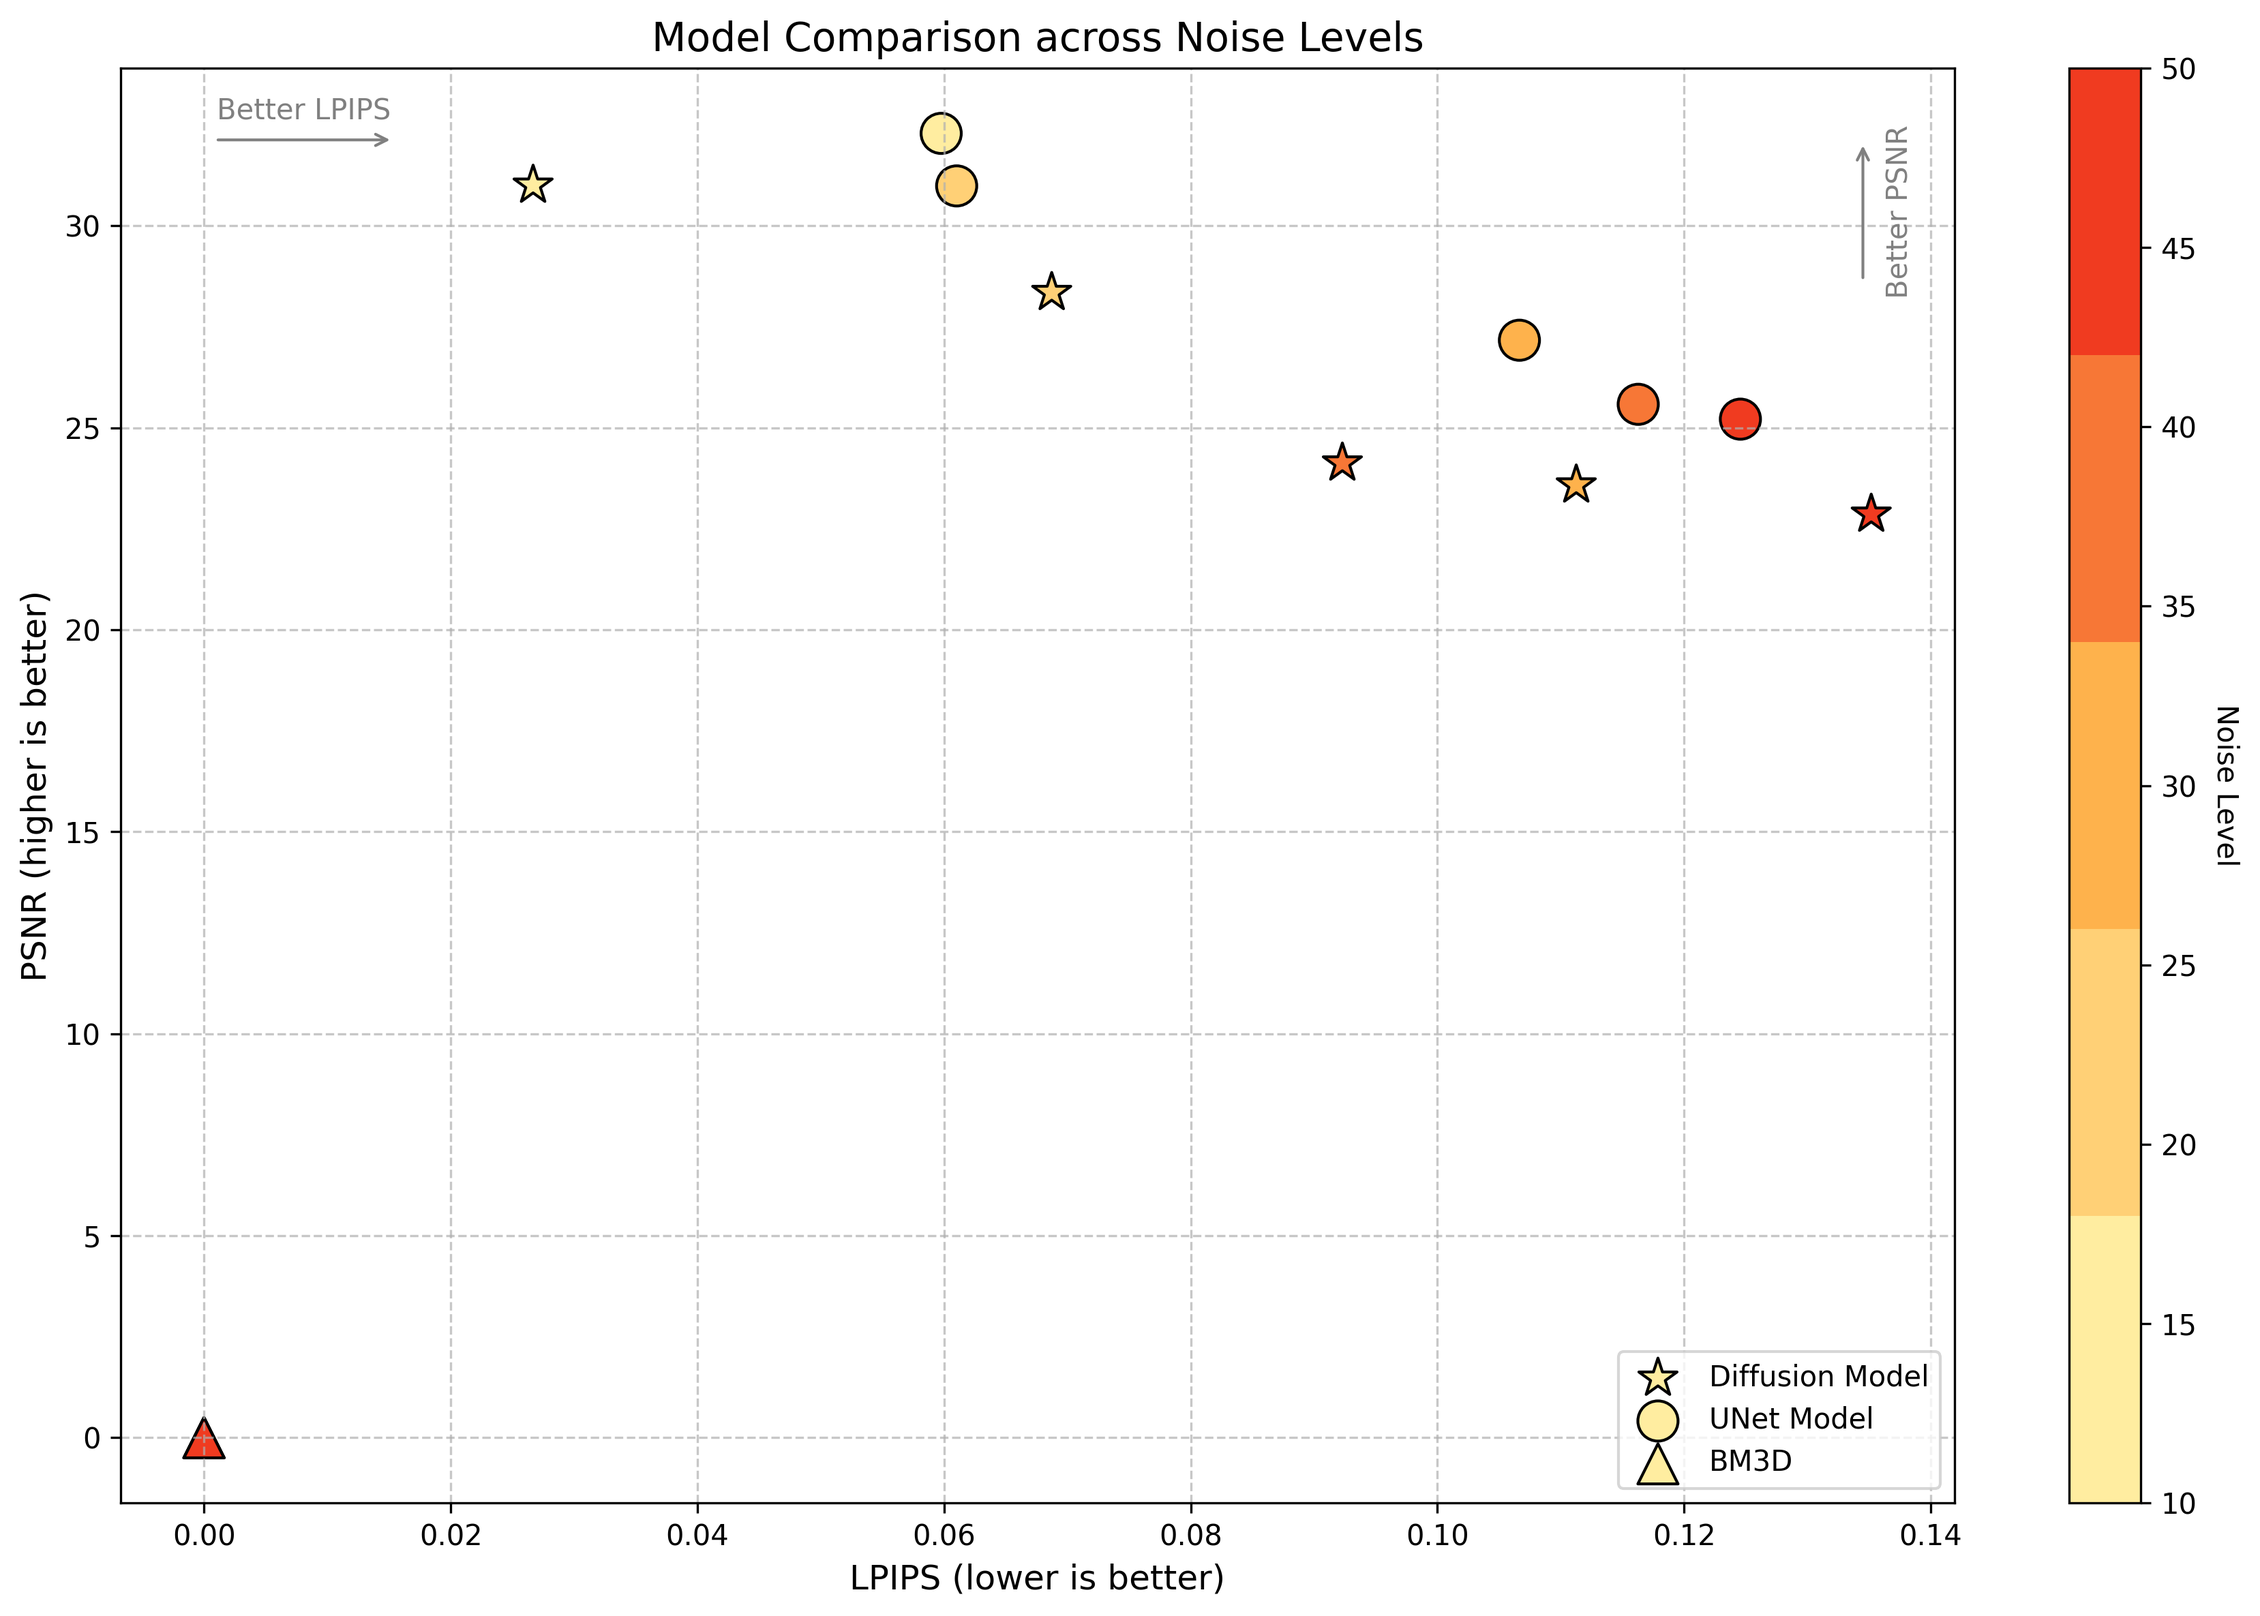
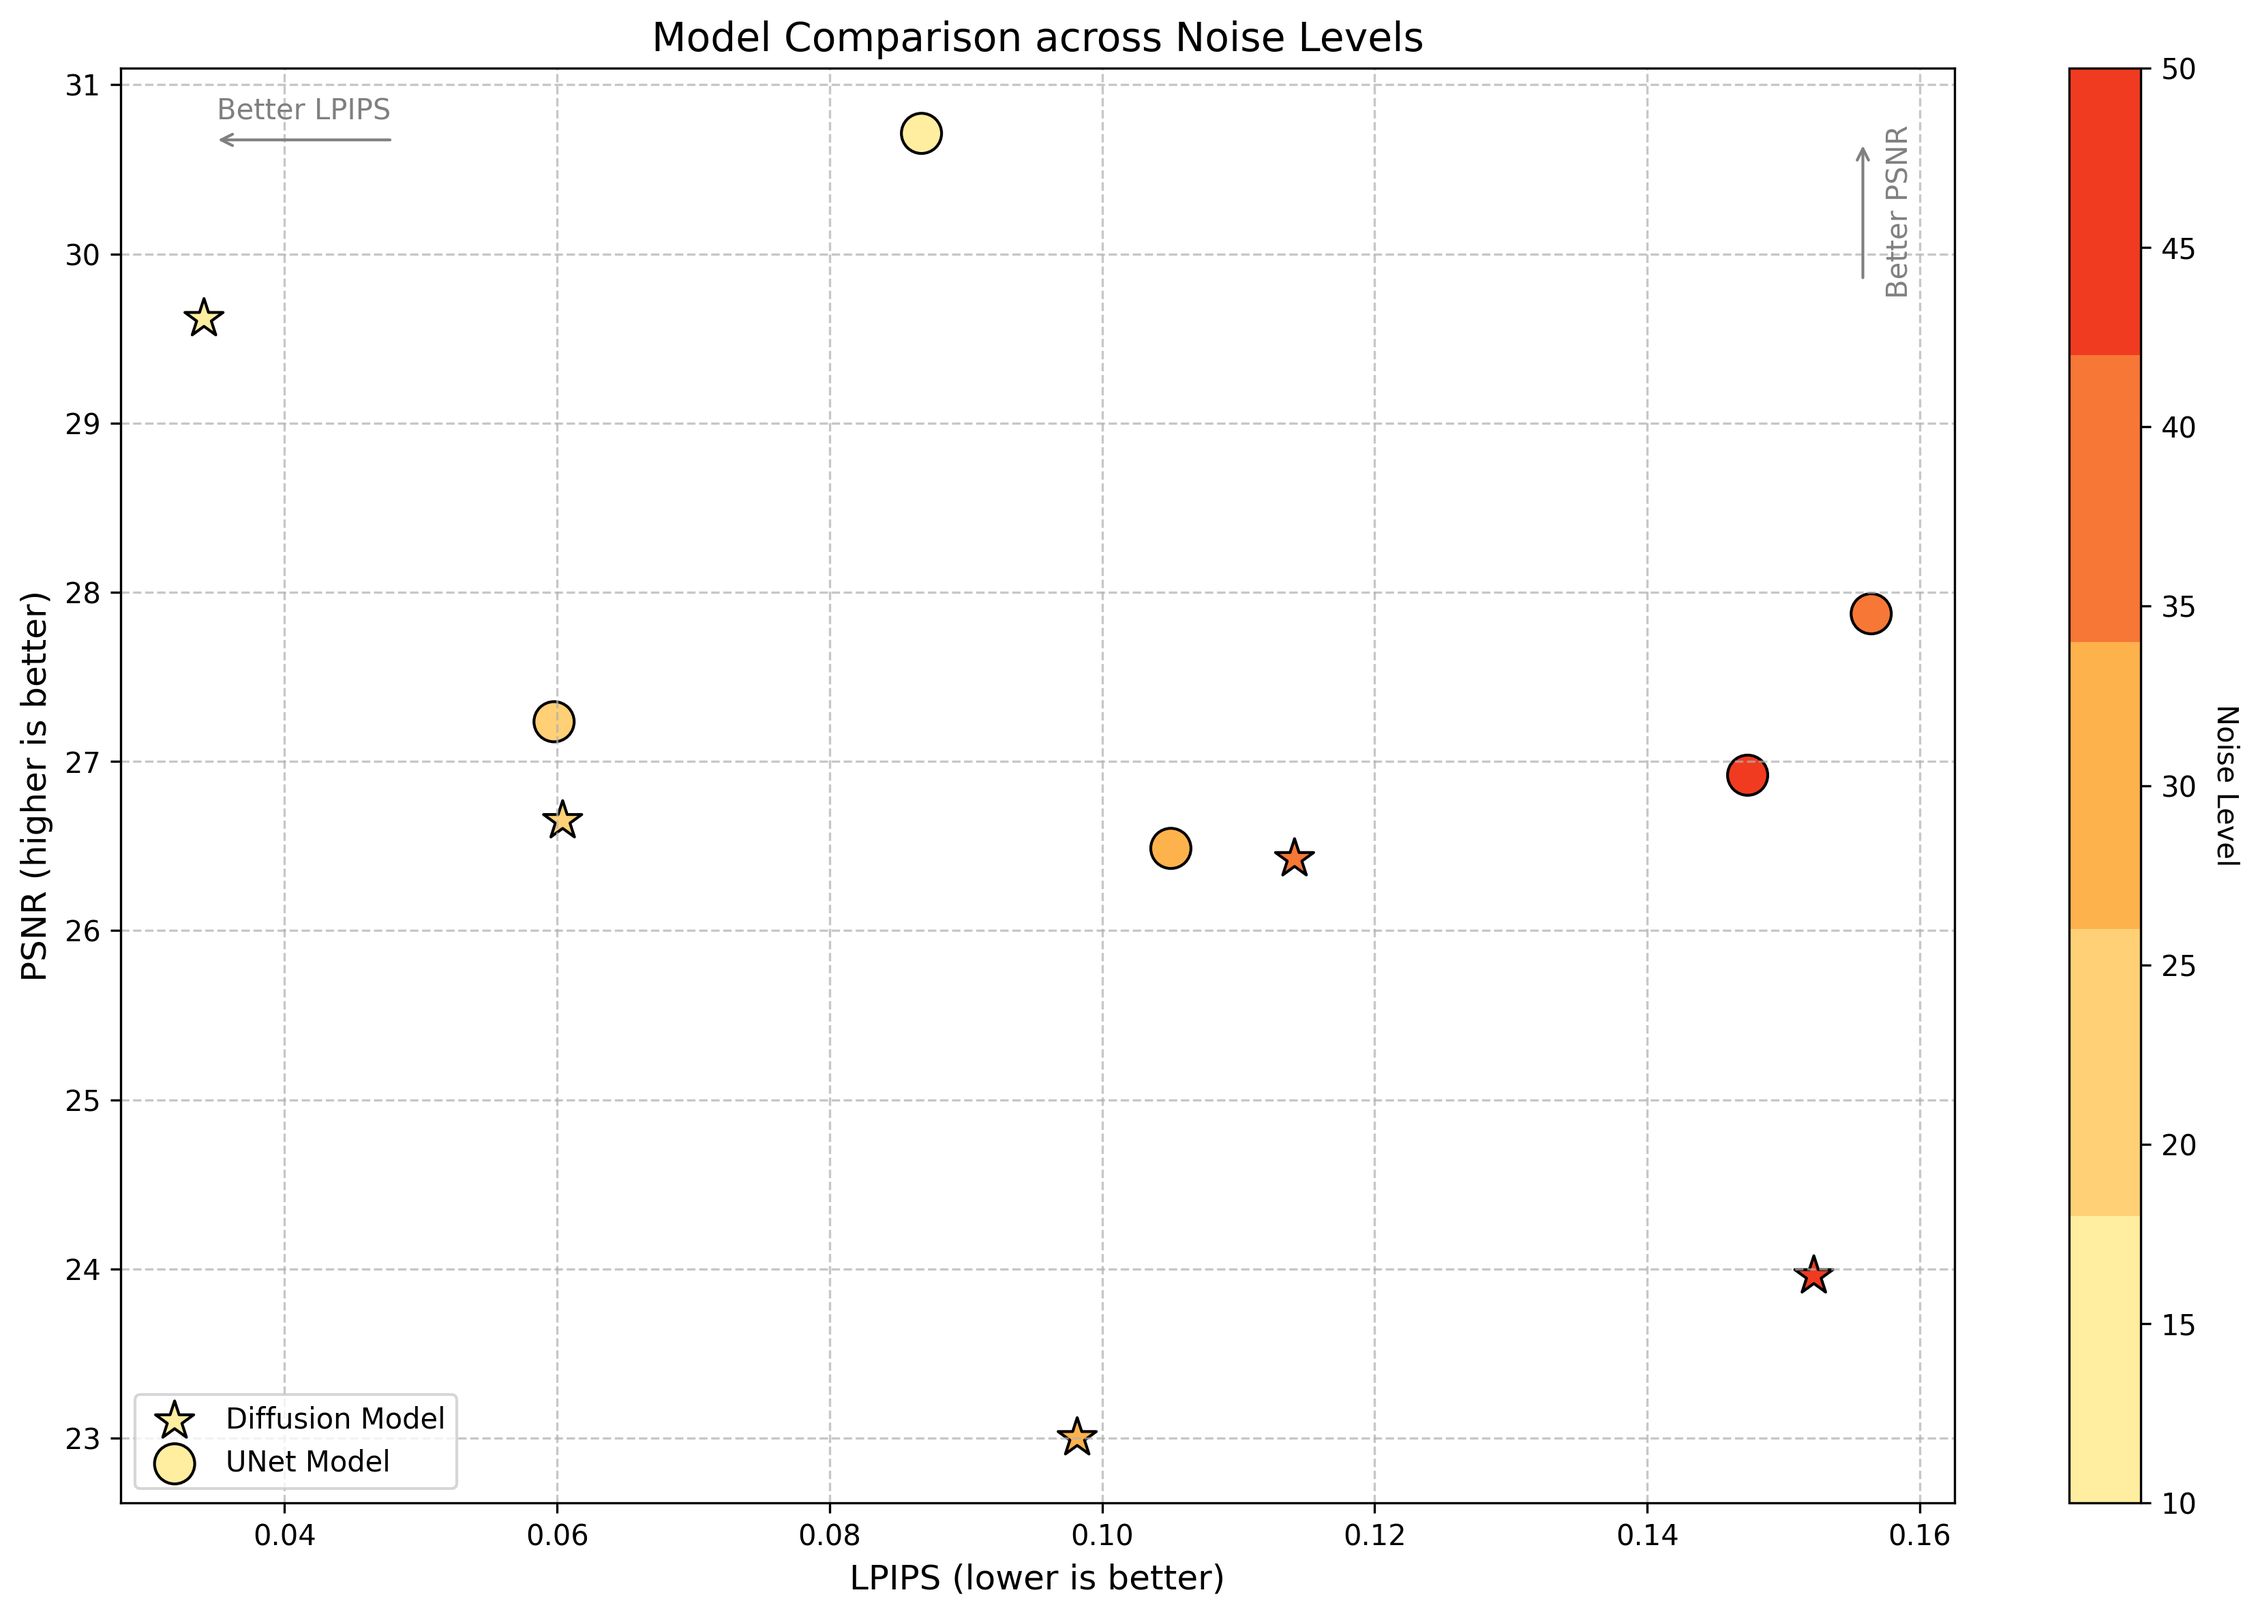
Refactor evaluate_model.py to consistently handle image shapes and convert RGB images to grayscale

diff --git a/evaluate_Unet_diffusion/plot.py b/evaluate_Unet_diffusion/plot.py
@@ -3,6 +3,7 @@ import numpy as np
 import matplotlib.pyplot as plt
 from scipy.signal import welch
 from matplotlib.colors import LinearSegmentedColormap
+from matplotlib.ticker import ScalarFormatter
 
 def save_example_images(example_images, save_dir):
     noise_levels_to_plot = [15, 30, 50]
@@ -229,14 +230,15 @@ def plot_psd_comparison(metrics, last_epoch, save_dir, high_freq_threshold=0.5):
     epochs = sorted(set(metrics['epoch']))
     noise_levels = np.array(metrics['noise_level'])
     unique_noise_levels = sorted(np.unique(noise_levels))
-
+    
+    # Create a colorblind-friendly colormap
+    colors = ['#FFEDA0', '#FEB24C', '#F03B20']  # Light yellow to orange to dark red
+    n_bins = len(unique_noise_levels)
+    cmap = LinearSegmentedColormap.from_list("custom", colors, N=n_bins)
+    
     for nl in unique_noise_levels:
         idx = (noise_levels == nl) & (np.array(metrics['epoch']) == last_epoch)
-        
-        psd_gt_all = []
-        psd_unet_all = []
-        psd_diffusion_all = []
-        psd_degraded_all = []
+        psd_gt_all, psd_unet_all, psd_diffusion_all, psd_degraded_all = [], [], [], []
         
         for gt_image, degraded_image, predicted_unet_image, predicted_diffusion_image in zip(
             np.array(metrics['gt_image'])[idx],
@@ -255,30 +257,58 @@ def plot_psd_comparison(metrics, last_epoch, save_dir, high_freq_threshold=0.5):
             _, Pxx_diffusion = welch(predicted_diffusion_image.flatten(), nperseg=256)
 
             high_freq_idx = f_gt >= high_freq_threshold * np.max(f_gt)
-
             psd_gt_all.append(Pxx_gt[high_freq_idx])
             psd_degraded_all.append(Pxx_degraded[high_freq_idx])
             psd_unet_all.append(Pxx_unet[high_freq_idx])
             psd_diffusion_all.append(Pxx_diffusion[high_freq_idx])
-        
+
         avg_psd_gt = np.mean(psd_gt_all, axis=0)
         avg_psd_degraded = np.mean(psd_degraded_all, axis=0)
         avg_psd_unet = np.mean(psd_unet_all, axis=0)
         avg_psd_diffusion = np.mean(psd_diffusion_all, axis=0)
 
-        plt.figure(figsize=(10, 6))
-        plt.plot(f_gt[high_freq_idx], avg_psd_gt, label='Ground Truth', color='black')
-        plt.plot(f_gt[high_freq_idx], avg_psd_degraded, label='Degraded', color='red')
-        plt.plot(f_gt[high_freq_idx], avg_psd_unet, label='UNet Model', color='purple')
-        plt.plot(f_gt[high_freq_idx], avg_psd_diffusion, label=f'Diffusion Model (Epoch {last_epoch})', color='green')
-        plt.xlabel('Frequency')
-        plt.ylabel('Power Spectral Density (Log Scale)')
-        plt.yscale('log')
-        plt.title(f'Average PSD Comparison at Noise Level {nl}')
-        plt.legend()
-        plt.grid(True, which="both", ls="--")
+        # Calculate standard error
+        se_gt = np.std(psd_gt_all, axis=0) / np.sqrt(len(psd_gt_all))
+        se_degraded = np.std(psd_degraded_all, axis=0) / np.sqrt(len(psd_degraded_all))
+        se_unet = np.std(psd_unet_all, axis=0) / np.sqrt(len(psd_unet_all))
+        se_diffusion = np.std(psd_diffusion_all, axis=0) / np.sqrt(len(psd_diffusion_all))
+
+        fig, ax = plt.subplots(figsize=(14, 8))
+        
+        # Plot with error bands
+        ax.plot(f_gt[high_freq_idx], avg_psd_gt, label='Ground Truth', color='#000000', linewidth=2.5, zorder=5)
+        ax.fill_between(f_gt[high_freq_idx], avg_psd_gt - se_gt, avg_psd_gt + se_gt, color='#000000', alpha=0.1, zorder=4)
+        
+        ax.plot(f_gt[high_freq_idx], avg_psd_degraded, label='Degraded', color='#FF4136', linewidth=2.5, zorder=3)
+        ax.fill_between(f_gt[high_freq_idx], avg_psd_degraded - se_degraded, avg_psd_degraded + se_degraded, color='#FF4136', alpha=0.1, zorder=2)
+        
+        ax.plot(f_gt[high_freq_idx], avg_psd_unet, label='UNet Model', color='#7FDBFF', linewidth=2.5, zorder=3)
+        ax.fill_between(f_gt[high_freq_idx], avg_psd_unet - se_unet, avg_psd_unet + se_unet, color='#7FDBFF', alpha=0.2, zorder=2)
+        
+        ax.plot(f_gt[high_freq_idx], avg_psd_diffusion, label=f'Diffusion Model', color='#2ECC40', linewidth=2.5, zorder=3)
+        ax.fill_between(f_gt[high_freq_idx], avg_psd_diffusion - se_diffusion, avg_psd_diffusion + se_diffusion, color='#2ECC40', alpha=0.1, zorder=2)
+
+        ax.set_xlabel('Frequency (Hz)', fontsize=14, fontweight='bold')
+        ax.set_ylabel('Power Spectral Density (dB/Hz)', fontsize=14, fontweight='bold')
+        ax.set_yscale('log')
+        ax.set_xscale('log')
+        ax.set_title(f'Power Spectral Density Comparison\nNoise Level σ = {nl:.2f}', fontsize=16, fontweight='bold')
+        ax.legend(fontsize=12, loc='lower left', frameon=True, facecolor='white', edgecolor='none', shadow=True)
+        ax.grid(True, which="both", ls="--", alpha=0.3, color='gray')
+        
+        # Format ticks
+        ax.xaxis.set_major_formatter(ScalarFormatter())
+        ax.yaxis.set_major_formatter(ScalarFormatter())
+        ax.tick_params(axis='both', which='major', labelsize=12)
+        
+        # Add textbox with parameters
+        textstr = f'High Freq. Threshold: {high_freq_threshold}\nEpoch: {last_epoch}\nNoise Level (σ): {nl:.2f}'
+        props = dict(boxstyle='round,pad=0.5', facecolor='white', edgecolor='gray', alpha=0.8)
+        ax.text(0.95, 0.95, textstr, transform=ax.transAxes, fontsize=11,
+                verticalalignment='top', horizontalalignment='right', bbox=props)
+
         plt.tight_layout()
-        plt.savefig(os.path.join(save_dir, f'psd_comparison_high_freq_noise_level_{nl}.png'))
+        plt.savefig(os.path.join(save_dir, f'psd_comparison_noise_level_{nl:.2f}.png'), dpi=300, bbox_inches='tight')
         plt.close()
 
 def save_dists(metrics, last_epoch, save_dir):
@@ -336,8 +366,8 @@ def generate_comparison_plot(metrics, epochs, save_dir, use_bm3d=False):
     lpips_diffusion = np.array(metrics['lpips_diffusion'])
     lpips_unet = np.array(metrics['lpips_unet'])
     
-    # Check if BM3D data exists
-    use_bm3d = 'psnr_bm3d' in metrics and 'lpips_bm3d' in metrics
+    # Check if BM3D data exists and if use_bm3d is True
+    use_bm3d = use_bm3d and 'psnr_bm3d' in metrics and 'lpips_bm3d' in metrics
     if use_bm3d:
         psnr_bm3d = np.array(metrics['psnr_bm3d'])
         lpips_bm3d = np.array(metrics['lpips_bm3d'])
@@ -352,6 +382,8 @@ def generate_comparison_plot(metrics, epochs, save_dir, use_bm3d=False):
         avg_lpips_bm3d = [np.mean(lpips_bm3d[noise_levels == nl]) for nl in unique_noise_levels]
 
     fig, ax = plt.subplots(figsize=(12, 8))
+    # zoom out the plot by 20%
+    ax.set_xlim(ax.get_xlim()[0] - 0.2, ax.get_xlim()[1] + 0.2)
     
     # Create a colorblind-friendly colormap
     colors = ['#FFEDA0', '#FEB24C', '#F03B20']  # Light yellow to orange to dark red
@@ -359,17 +391,17 @@ def generate_comparison_plot(metrics, epochs, save_dir, use_bm3d=False):
     cmap = LinearSegmentedColormap.from_list("custom", colors, N=n_bins)
     
     # Plot with color gradient
-    scatter_diffusion = ax.scatter(avg_lpips_diffusion, avg_psnr_diffusion, 
-                                   c=unique_noise_levels, cmap=cmap, 
+    scatter_diffusion = ax.scatter(avg_lpips_diffusion, avg_psnr_diffusion,
+                                   c=unique_noise_levels, cmap=cmap,
                                    label='Diffusion Model', marker='*', s=200, edgecolors='black')
     
-    scatter_unet = ax.scatter(avg_lpips_unet, avg_psnr_unet, 
-                              c=unique_noise_levels, cmap=cmap, 
+    scatter_unet = ax.scatter(avg_lpips_unet, avg_psnr_unet,
+                              c=unique_noise_levels, cmap=cmap,
                               label='UNet Model', marker='o', s=200, edgecolors='black')
     
     if use_bm3d:
-        scatter_bm3d = ax.scatter(avg_lpips_bm3d, avg_psnr_bm3d, 
-                                  c=unique_noise_levels, cmap=cmap, 
+        scatter_bm3d = ax.scatter(avg_lpips_bm3d, avg_psnr_bm3d,
+                                  c=unique_noise_levels, cmap=cmap,
                                   label='BM3D', marker='^', s=200, edgecolors='black')
     
     # Add colorbar
@@ -383,16 +415,16 @@ def generate_comparison_plot(metrics, epochs, save_dir, use_bm3d=False):
     ax.grid(True, linestyle='--', alpha=0.7)
     
     # Add arrows to indicate better performance directions
-    ax.annotate('', xy=(0.05, 0.95), xytext=(0.15, 0.95), 
+    ax.annotate('', xy=(0.05, 0.95), xytext=(0.15, 0.95),
                 xycoords='axes fraction', textcoords='axes fraction',
-                arrowprops=dict(arrowstyle='<-', color='gray'))
-    ax.text(0.1, 0.97, 'Better LPIPS', ha='center', va='center', 
+                arrowprops=dict(arrowstyle='->', color='gray'))
+    ax.text(0.1, 0.97, 'Better LPIPS', ha='center', va='center',
             transform=ax.transAxes, fontsize=10, color='gray')
 
-    ax.annotate('', xy=(0.95, 0.85), xytext=(0.95, 0.95), 
+    ax.annotate('', xy=(0.95, 0.85), xytext=(0.95, 0.95),
                 xycoords='axes fraction', textcoords='axes fraction',
                 arrowprops=dict(arrowstyle='<-', color='gray'))
-    ax.text(0.97, 0.9, 'Better PSNR', ha='center', va='center', 
+    ax.text(0.97, 0.9, 'Better PSNR', ha='center', va='center',
             transform=ax.transAxes, fontsize=10, color='gray', rotation=90)
 
     plt.tight_layout()
